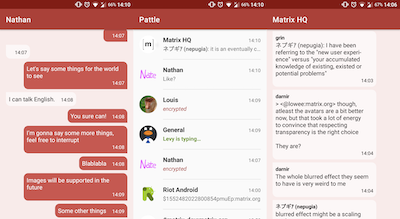
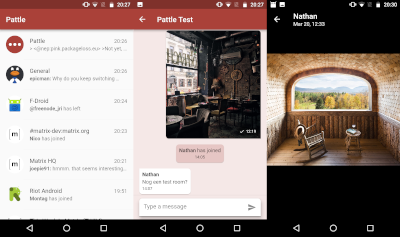
Update pattle information
Add new repo url, screenshots and description.

diff --git a/jekyll/_posts/projects/2019-03-13-pattle.md b/jekyll/_posts/projects/2019-03-13-pattle.md
@@ -3,12 +3,12 @@ layout: projectimage
 title: Pattle
 categories: projects client
 thumbnail: /docs/projects/images/pattle_thumb.png
-description: an easy to use Android app for Matrix, with design inspired by other popular IM apps
-author: wilko
+description: An easy to use Android app for Matrix, with design inspired by other popular IM apps
+author: Wilko Manger
 maturity: Alpha
-language: Kotlin
+language: Dart
 license: AGPL-3.0-or-later
-repo: https://git.pattle.im/pattle/android
+repo: https://git.pattle.im/pattle/app
 screenshot: /docs/projects/images/pattle.png
 room: "#pattle:matrix.org"
 platform: Android
